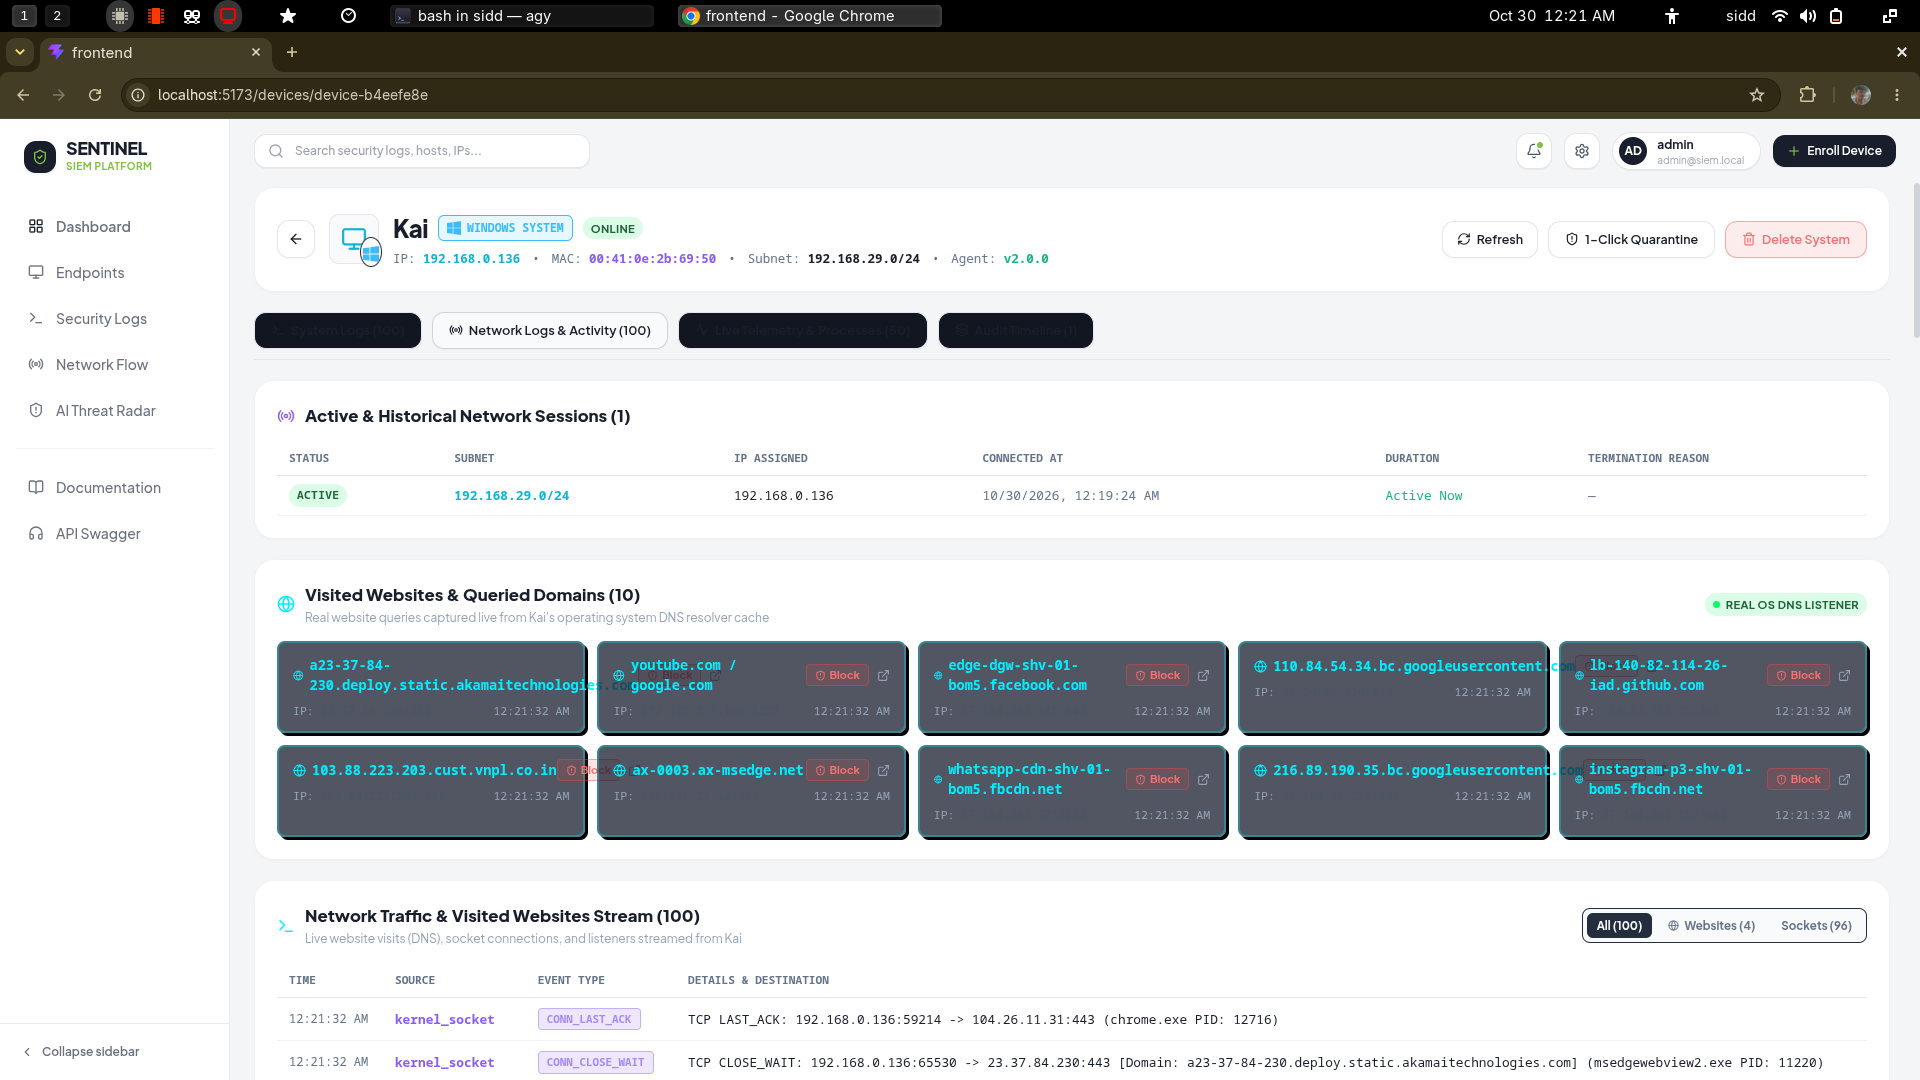
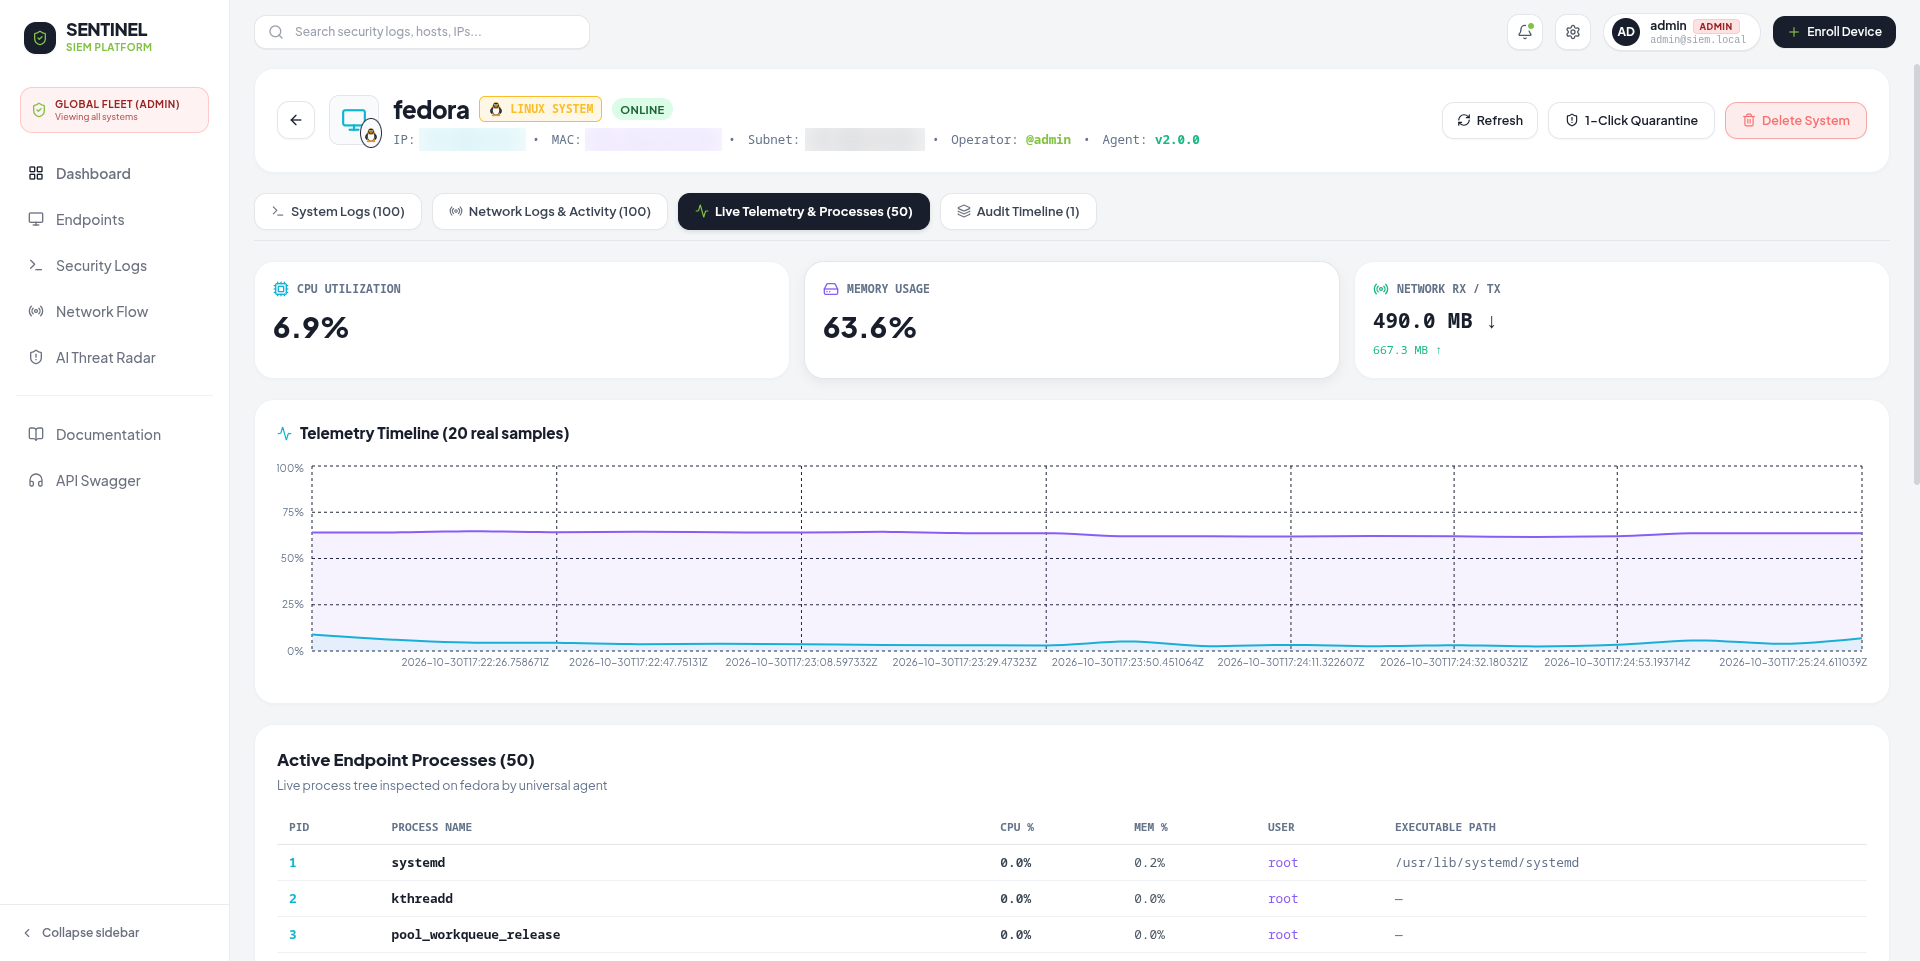
docs: add redacted device details screenshot to README and docs

diff --git a/README.md b/README.md
@@ -15,6 +15,14 @@
 
 ---
 
+## 🖥 Live Endpoint Forensics & Deep Telemetry
+
+![Sentinel Endpoint Forensics & Process Tree](docs/images/device-details.png)
+
+*Real-time endpoint deep-dive displaying live CPU/memory load, bidirectional socket I/O, telemetry sample timelines, 1-click zero-trust host quarantine, and active system process inspection.*
+
+---
+
 ## 📁 Repository Structure
 
 ```text
